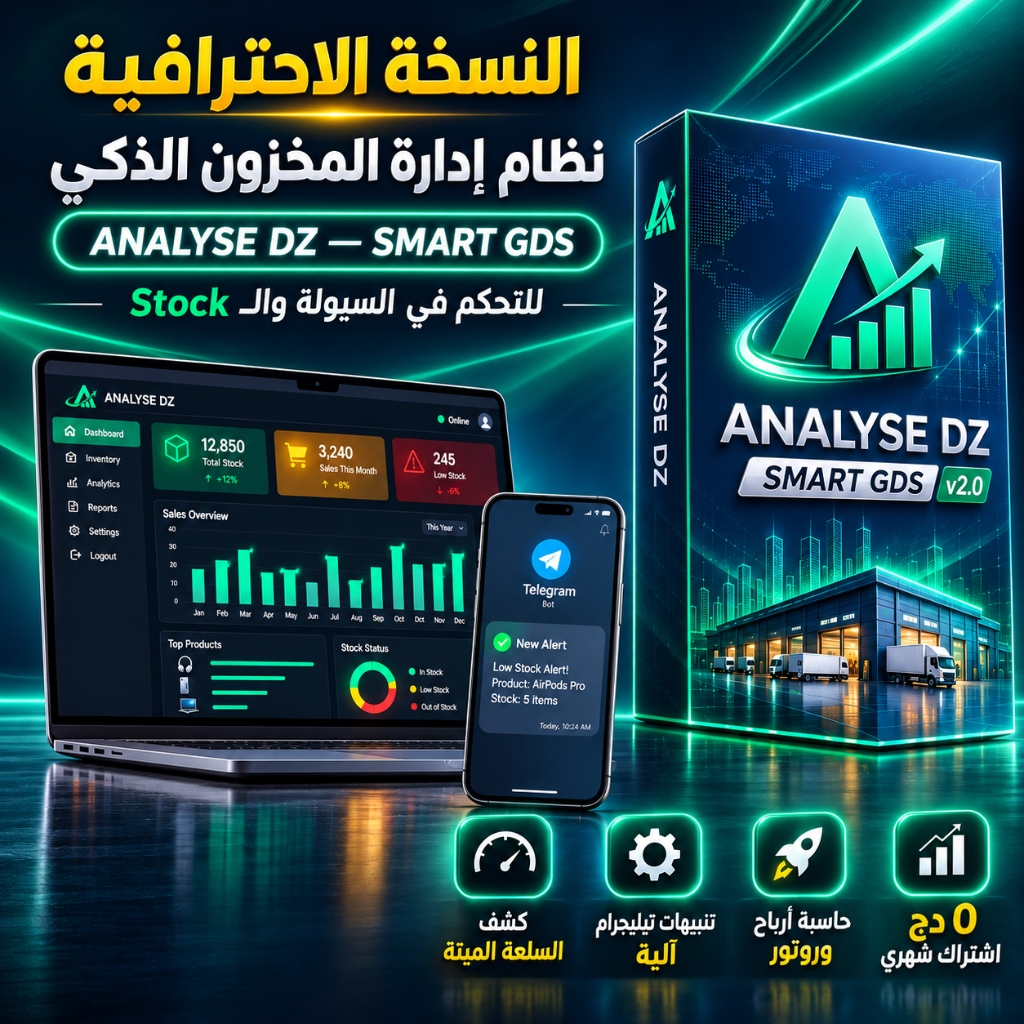
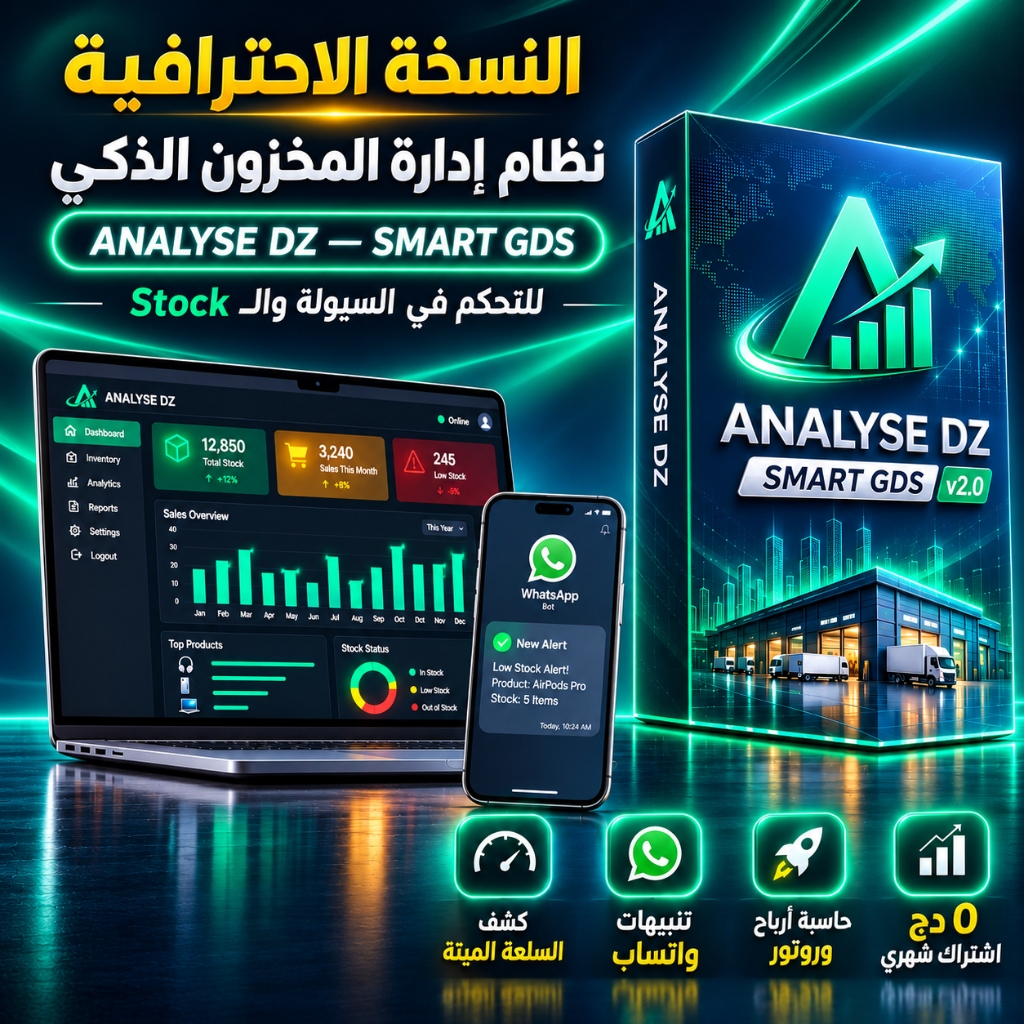
feat(assets): replace product mockup with new WhatsApp bot version

diff --git a/src/components/Hero.jsx b/src/components/Hero.jsx
@@ -1,4 +1,5 @@
 import React, { useState } from 'react';
+import productMockupImg from '../assets/product-mockup.jpg';
 import { 
   AlertTriangle, 
   ArrowDown, 
@@ -241,7 +242,7 @@ export default function Hero() {
                     {/* Product Image */}
                     <div className="relative overflow-hidden w-full aspect-square sm:aspect-[16/10] max-h-[560px] flex items-center justify-center bg-[#071326]">
                       <img
-                        src="/product-mockup.jpg"
+                        src={productMockupImg}
                         alt="ANALYSE DZ • SMART GDS v2.1 ENTERPRISE PRO"
                         className="w-full h-full object-cover object-center transform group-hover:scale-[1.02] transition-transform duration-700"
                         loading="eager"
